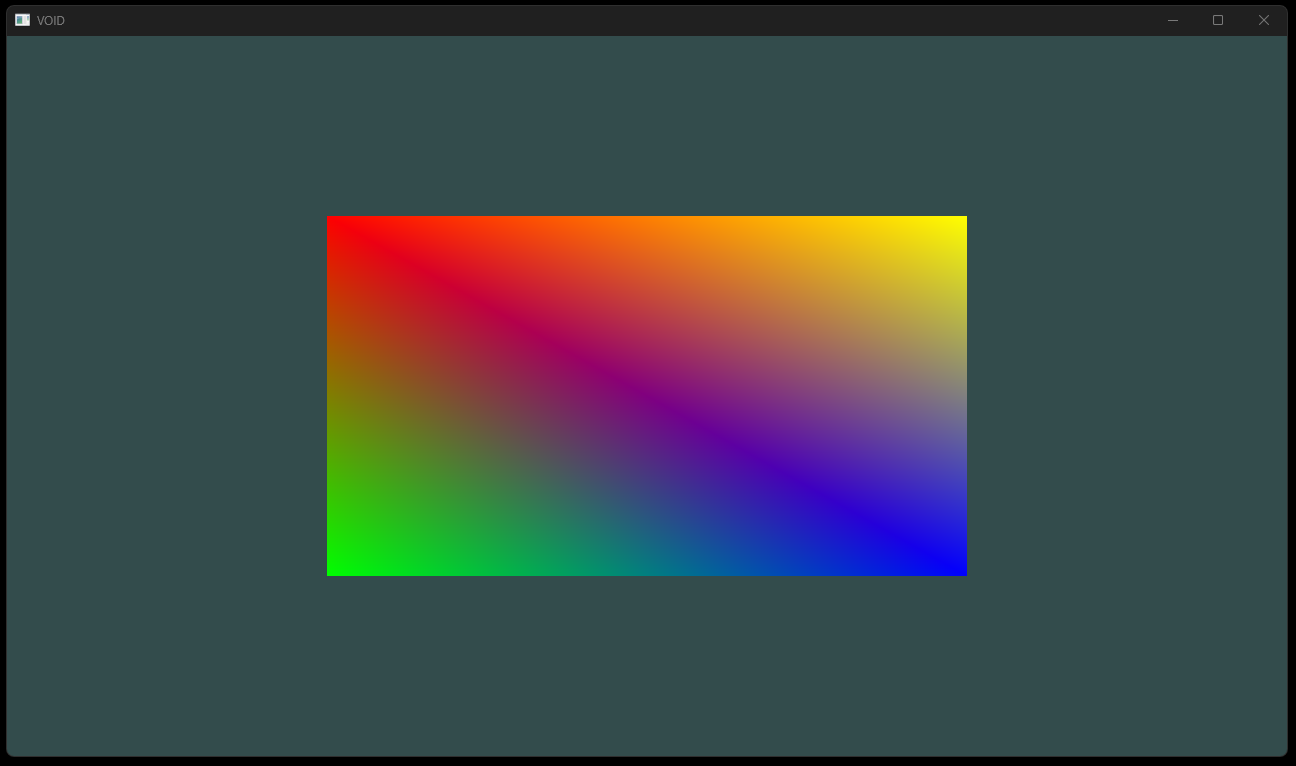
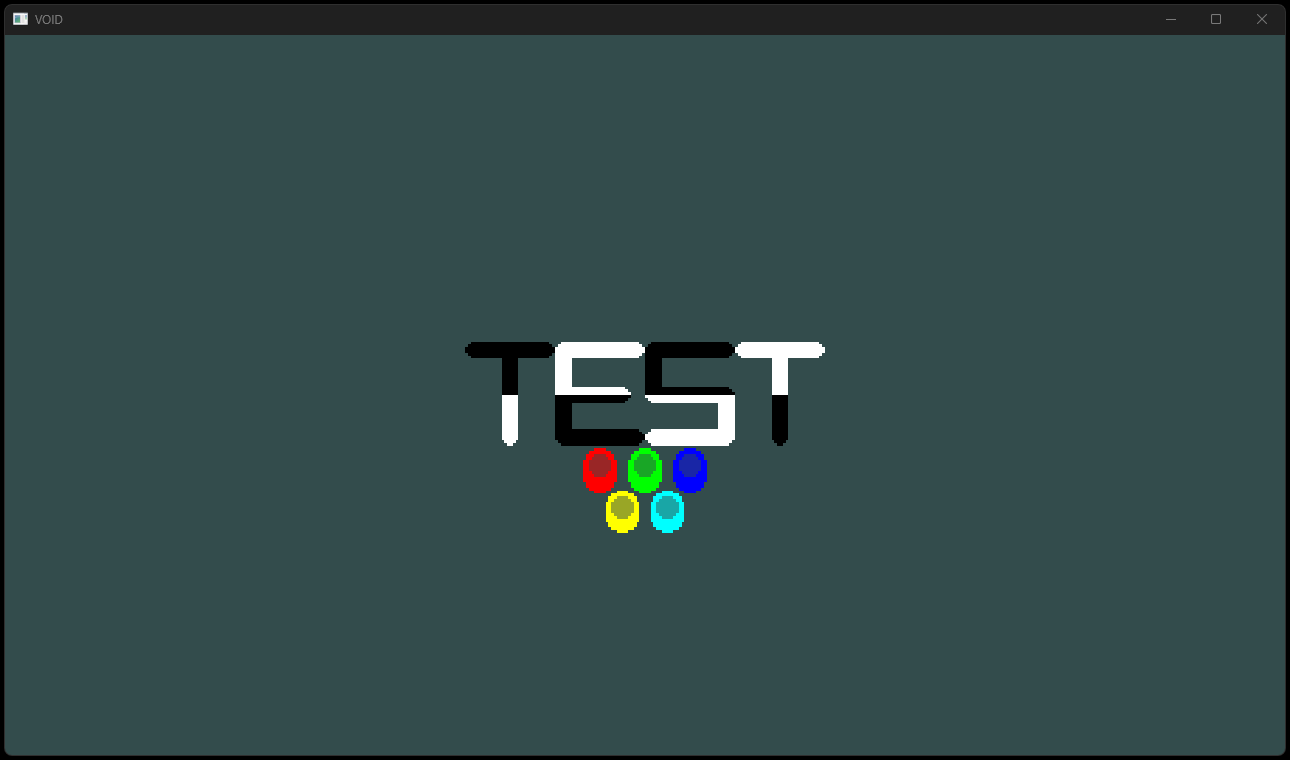
feat: implement stb_image texture loading and fallback logic

diff --git a/src/main.cpp b/src/main.cpp
@@ -1,5 +1,7 @@
 #include <SDL3/SDL.h>
 #include <glad/gl.h>
+#include <stb_image.h>
+
 #include <iostream>
 #include <fstream>
 #include <sstream>
@@ -7,6 +9,8 @@
 
 #define WINDOW_WIDTH 1280
 #define WINDOW_HEIGHT 720
+
+#define FLIP_TEXTURE true
 
 std::string ReadFile(const std::string& path) {
     std::ifstream file(path);
@@ -68,6 +72,10 @@ int main(int argc, char* argv[]) {
     }
 
     glViewport(0, 0, WINDOW_WIDTH, WINDOW_HEIGHT);
+
+    // Blending
+    glEnable(GL_BLEND);
+    glBlendFunc(GL_SRC_ALPHA, GL_ONE_MINUS_SRC_ALPHA);
 
     // GPU info for test
     std::cout << "Vendor:   " << glGetString(GL_VENDOR) << '\n';
@@ -138,11 +146,11 @@ int main(int argc, char* argv[]) {
     glDeleteShader(fragmentShader);
 
     float vertices[] = {
-        // pos          // color
-        -0.5f,  0.5f,   1,0,0,
-        -0.5f, -0.5f,   0,1,0,
-         0.5f, -0.5f,   0,0,1,
-         0.5f,  0.5f,   1,1,0
+        // pos           // color               // texture coord
+        -0.5f,  0.5f,    1.0f,  0.0f,  0.0f,    0.0f, 1.0f,
+        -0.5f, -0.5f,    0.0f,  1.0f,  0.0f,    0.0f, 0.0f,
+         0.5f, -0.5f,    0.0f,  0.0f,  1.0f,    1.0f, 0.0f,
+         0.5f,  0.5f,    1.0f,  1.0f,  0.0f,    1.0f, 1.0f
     };
 
     unsigned int indices[] = {
@@ -150,10 +158,11 @@ int main(int argc, char* argv[]) {
         2, 3, 0
     };
 
-    // VAO VBO EBO
+    // VAO VBO EBO STB
     GLuint vao;
     GLuint vbo;
     GLuint ebo;
+    GLuint texture;
 
     glGenVertexArrays(1, &vao);
     glGenBuffers(1, &vbo);
@@ -180,42 +189,117 @@ int main(int argc, char* argv[]) {
         GL_STATIC_DRAW
     );
 
+    // pos (vec2)
     glVertexAttribPointer(
         0,
         2,
         GL_FLOAT,
         GL_FALSE,
-        5 * sizeof(float),
+        7 * sizeof(float),
         nullptr
     );
     glEnableVertexAttribArray(0);
 
+    // color (vec3)
     glVertexAttribPointer(
         1,
         3,
         GL_FLOAT,
         GL_FALSE,
-        5 * sizeof(float),
+        7 * sizeof(float),
         reinterpret_cast<void*>(2 * sizeof(float))
     );
     glEnableVertexAttribArray(1);
 
+    // texture coord (vec2)
+    glVertexAttribPointer(
+        2,
+        2,
+        GL_FLOAT,
+        GL_FALSE,
+        7 * sizeof(float),
+        reinterpret_cast<void*>(5 * sizeof(float))
+    );
+    glEnableVertexAttribArray(2);
+
     glBindBuffer(GL_ARRAY_BUFFER, 0);
     glBindVertexArray(0);
+
+    // Texture
+
+    // Flip texture
+    stbi_set_flip_vertically_on_load(FLIP_TEXTURE);
+
+    glGenTextures(1, &texture);
+    glBindTexture(GL_TEXTURE_2D, texture);
+
+    // Parameteri
+    glTexParameteri(GL_TEXTURE_2D, GL_TEXTURE_WRAP_S, GL_REPEAT);
+    glTexParameteri(GL_TEXTURE_2D, GL_TEXTURE_WRAP_T, GL_REPEAT);
+
+    /*
+        Default Texture:
+        glTexParameteri(GL_TEXTURE_2D, GL_TEXTURE_MIN_FILTER, GL_NEAREST_MIPMAP_NEAREST);
+        glTexParameteri(GL_TEXTURE_2D, GL_TEXTURE_MAG_FILTER, GL_NEAREST);
+
+        Pixel Texture:
+        glTexParameteri(GL_TEXTURE_2D, GL_TEXTURE_MIN_FILTER, GL_NEAREST_MIPMAP_NEAREST);
+        glTexParameteri(GL_TEXTURE_2D, GL_TEXTURE_MAG_FILTER, GL_NEAREST);
+    */
+
+    glTexParameteri(GL_TEXTURE_2D, GL_TEXTURE_MIN_FILTER, GL_NEAREST_MIPMAP_NEAREST);
+    glTexParameteri(GL_TEXTURE_2D, GL_TEXTURE_MAG_FILTER, GL_NEAREST);
+
+    int texture_width, texture_height, nrChannels;
+    unsigned char* data = stbi_load("../assets/textures/test.png", &texture_width, &texture_height, &nrChannels, 0);
+    if (data) {
+        std::cout << "[OK] Texture: \"../assets/textures/test.png\" loaded successfully.\n";
+
+        // Format RGB or RGBA
+        GLenum format = (nrChannels == 4) ? GL_RGBA : GL_RGB;
+
+        glTexImage2D(GL_TEXTURE_2D, 0, format, texture_width, texture_height, 0, format, GL_UNSIGNED_BYTE, data);
+        glGenerateMipmap(GL_TEXTURE_2D);
+        stbi_image_free(data);
+    } else {
+        std::cerr << "[ERROR] Could not load texture: \"../assets/textures/test.png\". Using fallback checkerboard.\n";
+
+        unsigned char fallbackPixels[4 * 4] = {
+            255, 0, 255, 255,  // 0 0 purple
+              0, 0,   0, 255,  // 1 0 black
+              0, 0,   0, 255,  // 0 1 black
+            255, 0, 255, 255   // 1 1 purple
+        };
+
+        glTexImage2D(GL_TEXTURE_2D, 0, GL_RGBA, 2, 2, 0, GL_RGBA, GL_UNSIGNED_BYTE, fallbackPixels);
+        glGenerateMipmap(GL_TEXTURE_2D);
+    }
 
     // Main
     bool running = true;
     SDL_Event event;
     while (running) {
         while (SDL_PollEvent(&event)) {
-            // Exit
-            if (event.type == SDL_EVENT_QUIT)
+            if (event.type == SDL_EVENT_QUIT) // exit
                 running = false;
         }
 
+        int w, h;
+        SDL_GetWindowSize(window, &w, &h);
+        glViewport(0, 0, w, h);
+
         glClearColor(0.2f, 0.3f, 0.3f, 1.0f);
         glClear(GL_COLOR_BUFFER_BIT);
+
+        // Shader
         glUseProgram(shaderProgram);
+
+        // Uniform
+        float aspect = static_cast<float>(h) / static_cast<float>(w);
+        glUniform1f(glGetUniformLocation(shaderProgram, "aspect"), aspect);
+
+        // Drawing
+        glBindTexture(GL_TEXTURE_2D, texture);
         glBindVertexArray(vao);
 
         glDrawElements(
@@ -229,10 +313,11 @@ int main(int argc, char* argv[]) {
     }
 
     // Clear
-    // VAO VBO EBO
+    // VAO VBO EBO STB
     glDeleteVertexArrays(1, &vao);
     glDeleteBuffers(1, &vbo);
     glDeleteBuffers(1, &ebo);
+    glDeleteTextures(1, &texture);
 
     // ShaderProgram
     glDeleteProgram(shaderProgram);

diff --git a/src/stb.cpp b/src/stb.cpp
@@ -1,0 +1,2 @@
+#define STB_IMAGE_IMPLEMENTATION
+#include <stb_image.h>
